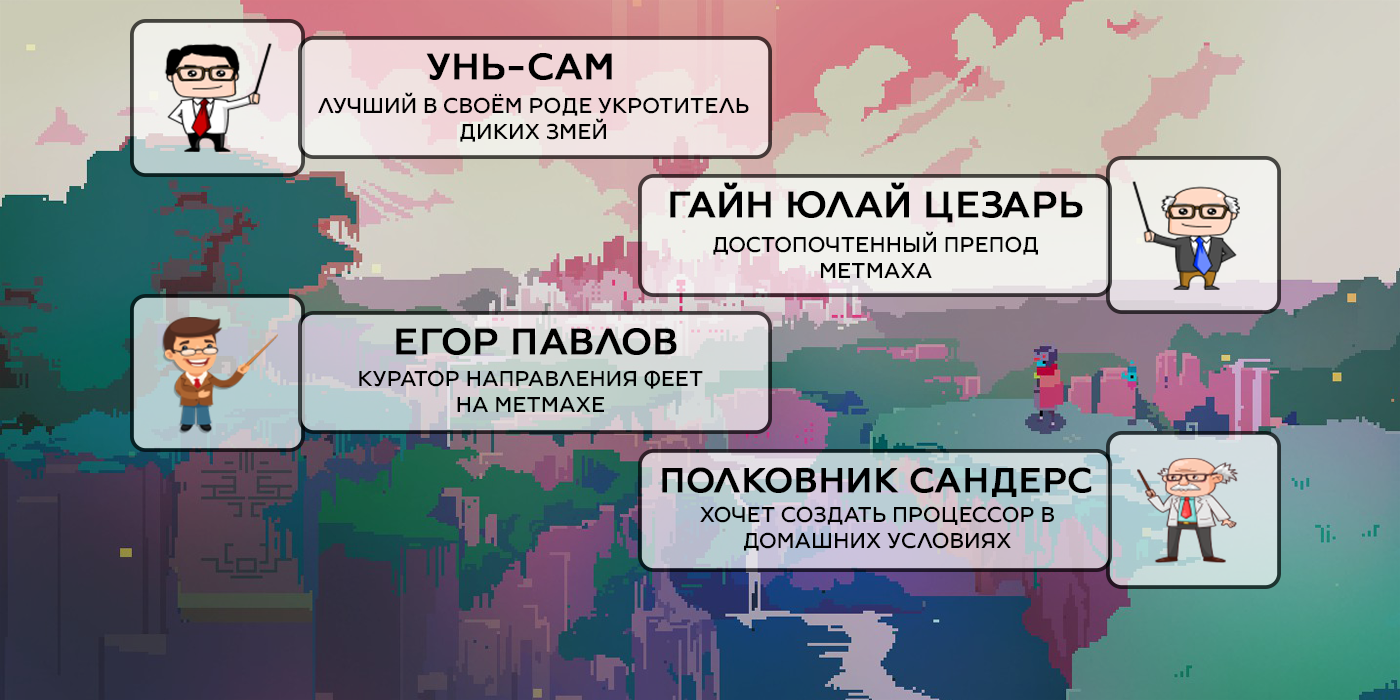
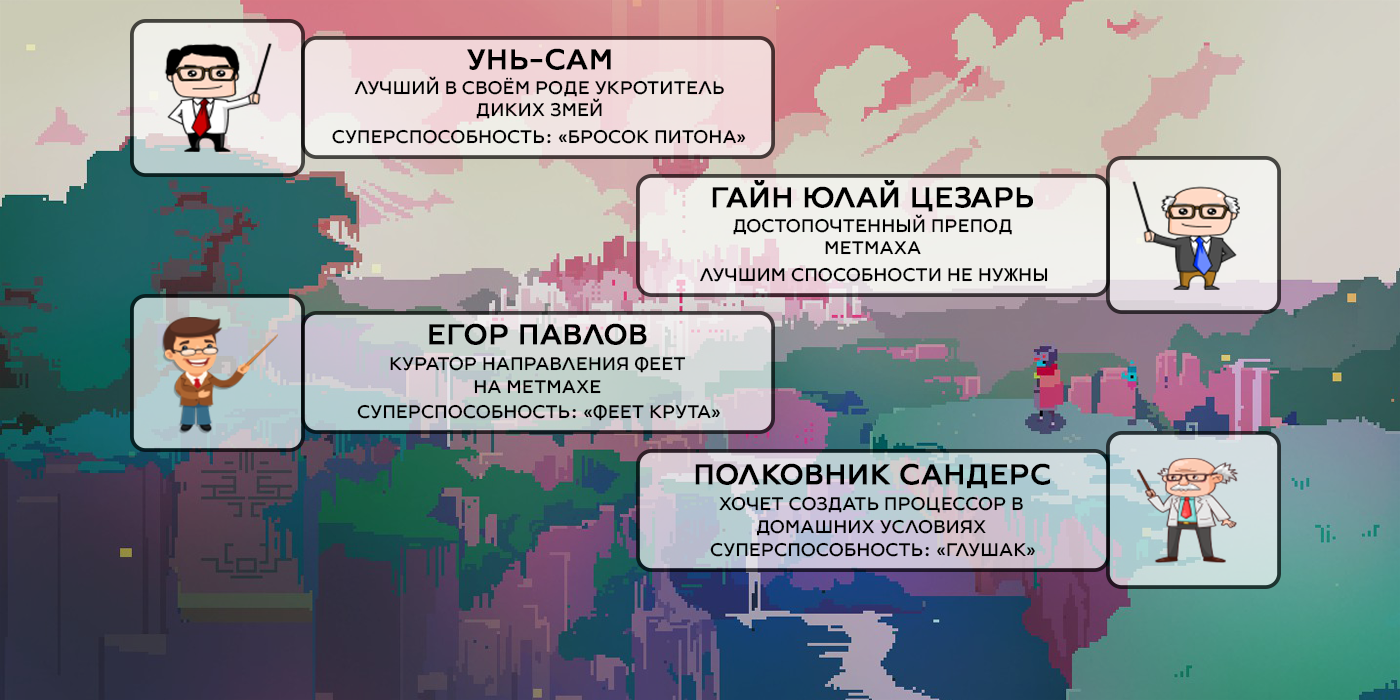
Дописал правила и меню игры

diff --git a/MetMah/Views/HelpControl.cs b/MetMah/Views/HelpControl.cs
@@ -9,6 +9,9 @@ namespace MetMah.Views
         private Button buttonDescription;
         private Button buttonControl;
         private Button buttonCharacters;
+        private Button buttonAbilities;
+        private Button buttonRules1;
+        private Button buttonRules2;
         private Button buttonExit;
         private Button buttonBack;
 
@@ -20,45 +23,68 @@ namespace MetMah.Views
             var font = new Font("Arial", 16);
 
             buttonDescription = new Button();
+            buttonRules1 = new Button();
             buttonControl = new Button();
             buttonCharacters = new Button();
+            buttonAbilities = new Button();
             buttonExit = new Button();
             buttonDescription.Size = new Size(300, 45);
             buttonDescription.BackColor = Color.LightGray;
             buttonDescription.Font = font;
+
+            buttonRules1.Size = new Size(300, 45);
+            buttonRules1.BackColor = Color.LightGray;
+            buttonRules1.Font = font;
+
             buttonControl.Size = new Size(300, 45);
             buttonControl.BackColor = Color.LightGray;
             buttonControl.Font = font;
+
             buttonCharacters.Size = new Size(300, 45);
             buttonCharacters.BackColor = Color.LightGray;
             buttonCharacters.Font = font;
+
+            buttonAbilities.Size = new Size(300, 45);
+            buttonAbilities.BackColor = Color.LightGray;
+            buttonAbilities.Font = font;
+
             buttonExit.Size = new Size(300, 45);
             buttonExit.BackColor = Color.LightGray;
             buttonExit.Font = font;
 
 
             buttonDescription.Location = new Point((ClientSize.Width - buttonDescription.Size.Width) / 2,
-                (ClientSize.Height - buttonDescription.Size.Height) / 2 - 40);
-            buttonControl.Location = new Point(buttonDescription.Location.X,
+                (ClientSize.Height - buttonDescription.Size.Height) / 2 - 60);
+            buttonRules1.Location = new Point(buttonDescription.Location.X,
                 buttonDescription.Location.Y + 50);
+            buttonControl.Location = new Point(buttonRules1.Location.X,
+                buttonRules1.Location.Y + 50);
             buttonCharacters.Location = new Point(buttonControl.Location.X,
                 buttonControl.Location.Y + 50);
-            buttonExit.Location = new Point(buttonCharacters.Location.X,
+            buttonAbilities.Location = new Point(buttonCharacters.Location.X,
                 buttonCharacters.Location.Y + 50);
+            buttonExit.Location = new Point(buttonAbilities.Location.X,
+                buttonAbilities.Location.Y + 50);
 
             buttonDescription.Text = "Описание игры";
+            buttonRules1.Text = "Правила";
             buttonControl.Text = "Управление";
             buttonCharacters.Text = "О персонажах";
+            buttonAbilities.Text = "О способностях";
             buttonExit.Text = "Назад";
 
             buttonDescription.Click += ButtonDescription_Click;
+            buttonRules1.Click += ButtonRules1_Click;
             buttonControl.Click += ButtonControl_Click;
             buttonCharacters.Click += ButtonCharacters_Click;
+            buttonAbilities.Click += ButtonAbilities_Click;
             buttonExit.Click += ButtonExit_Click;
 
             Controls.Add(buttonDescription);
+            Controls.Add(buttonRules1);
             Controls.Add(buttonControl);
             Controls.Add(buttonCharacters);
+            Controls.Add(buttonAbilities);
             Controls.Add(buttonExit);
 
             buttonBack = new Button
@@ -69,6 +95,14 @@ namespace MetMah.Views
                 Text = "Назад"
             };
 
+            buttonRules2 = new Button
+            {
+                Size = new Size(300, 45),
+                BackColor = Color.LightGray,
+                Font = new Font("Arial", 16),
+                Text = "Далее"
+            };
+
             ActiveControl = Controls[0];
         }
 
@@ -76,6 +110,31 @@ namespace MetMah.Views
         {
             HideControls();
             BackgroundImage = Image.FromFile(@"Images\Backgrounds\Description.png");
+            buttonBack.Location = new Point((ClientSize.Width - buttonDescription.Size.Width) / 2,
+                ClientSize.Height - 100);
+            Controls.Add(buttonBack);
+            buttonBack.Click += Return;
+        }
+
+        private void ButtonRules1_Click(object sender, EventArgs e)
+        {
+            HideControls();
+            BackgroundImage = Image.FromFile(@"Images\Backgrounds\Rules1.png");
+            buttonBack.Location = new Point((ClientSize.Width - buttonDescription.Size.Width) / 2,
+                ClientSize.Height - 100);
+            buttonRules2.Location = new Point(buttonBack.Location.X,
+                buttonBack.Location.Y - 50);
+            Controls.Add(buttonRules2);
+            Controls.Add(buttonBack);
+            buttonRules2.Click += ButtonRules2_Click;
+            buttonBack.Click += Return;
+        }
+
+        private void ButtonRules2_Click(object sender, EventArgs e)
+        {
+            HideControls();
+            Controls.Remove(buttonRules2);
+            BackgroundImage = Image.FromFile(@"Images\Backgrounds\Rules2.png");
             buttonBack.Location = new Point((ClientSize.Width - buttonDescription.Size.Width) / 2,
                 ClientSize.Height - 100);
             Controls.Add(buttonBack);
@@ -102,6 +161,16 @@ namespace MetMah.Views
             buttonBack.Click += Return;
         }
 
+        private void ButtonAbilities_Click(object sender, EventArgs e)
+        {
+            HideControls();
+            BackgroundImage = Image.FromFile(@"Images\Backgrounds\Abilities.png");
+            buttonBack.Location = new Point((ClientSize.Width - buttonDescription.Size.Width) / 2,
+                ClientSize.Height - 100);
+            Controls.Add(buttonBack);
+            buttonBack.Click += Return;
+        }
+
         private void ButtonExit_Click(object sender, EventArgs e)
         {
             Hide();
@@ -112,17 +181,22 @@ namespace MetMah.Views
         {
             BackgroundImage = Image.FromFile(@"Images\Backgrounds\Help.png");
             buttonDescription.Show();
+            buttonRules1.Show();
             buttonControl.Show();
             buttonCharacters.Show();
+            buttonAbilities.Show();
             buttonExit.Show();
             Controls.Remove(buttonBack);
+            Controls.Remove(buttonRules2);
         }
 
         private void HideControls()
         {
             buttonDescription.Hide();
+            buttonRules1.Hide();
             buttonControl.Hide();
             buttonCharacters.Hide();
+            buttonAbilities.Hide();
             buttonExit.Hide();
         }
     }

diff --git a/MetMah/Views/PlayControl.cs b/MetMah/Views/PlayControl.cs
@@ -27,8 +27,8 @@ namespace MetMah.Views
             pressedKeys = new HashSet<Keys>();
             progressBar = new ProgressBar
             {
-                Location = new Point(200, 6),
-                Size = new Size(150, 20),
+                Location = new Point(1100, 10),
+                Size = new Size(250, 25),
                 Style = ProgressBarStyle.Continuous
             };
             Controls.Add(progressBar);
@@ -106,9 +106,72 @@ namespace MetMah.Views
                 e.Graphics.DrawImage(bitmaps[GetImageFileName(a.Creature, a.Command.DeltaX)], a.Location);
             e.Graphics.ResetTransform();
 
+            var font = new Font("Arial", 24);
+            var brushes = Brushes.Black;
+
+            //Level
+            e.Graphics.DrawString("Level: " + (game.IndexCurrentLevel + 1) + " / " + 6, font, brushes, 20, 5);
+
+            //Ability
+            Bitmap bitmap = null;
+            if (game.NumberPlayer == 0)
+                bitmap = bitmaps["SnakeMini.png"];
+
+            if (game.NumberPlayer == 1)
+                bitmap = bitmaps["IgnorMini.png"];
+
+            if (game.NumberPlayer == 3)
+                bitmap = bitmaps["DeviceMini.png"];
+
+            if (bitmap != null)
+            {
+                e.Graphics.DrawImage(bitmap, 250, 5);
+
+                e.Graphics.DrawString("x " + game.CurrentLevel.NumberBeer.ToString(), font,
+                    brushes, 290, 5);
+            }
+
+            //Beer
+            e.Graphics.DrawString("Осталось собрать: ", font,
+                brushes, 400, 5);
+            e.Graphics.DrawString(game.CurrentLevel.CountBeer.ToString(), font,
+                brushes, 690, 5);
+
+            //Scale
             var scale = game.PatienceScale > 0 ? game.PatienceScale.ToString() : "0";
-            e.Graphics.DrawString(scale, new Font("Arial", 16), Brushes.Green, 150, 4);
-            e.Graphics.DrawString("Шкала терпения:", new Font("Arial", 12), Brushes.Green, 20, 6);
+            e.Graphics.DrawString(scale, font, brushes, 1030, 4);
+            e.Graphics.DrawString("Шкала терпения:", font, brushes, 770, 5);
+
+
+
+            //var scale = game.PatienceScale > 0 ? game.PatienceScale.ToString() : "0";
+            //e.Graphics.DrawString(scale, new Font("Arial", 24), brushes, 200, 4);
+            //e.Graphics.DrawString("Шкала терпения:", font, brushes, 20, 10);
+
+            //Bitmap bitmap = null;
+            //if (game.NumberPlayer == 0)
+            //    bitmap = bitmaps["SnakeMini.png"];
+
+            //if (game.NumberPlayer == 1)
+            //    bitmap = bitmaps["IgnorMini.png"];
+
+            //if (game.NumberPlayer == 3)
+            //    bitmap = bitmaps["DeviceMini.png"];
+
+            //if (bitmap != null)
+            //{
+            //    e.Graphics.DrawImage(bitmap, progressBar.Location.X + progressBar.Size.Width + 30, 6);
+
+            //    e.Graphics.DrawString("x " + game.CurrentLevel.NumberBeer.ToString(), new Font("Arial", 24),
+            //        brushes, progressBar.Location.X + progressBar.Size.Width + 30 + 33, 6);
+            //}
+
+            //var str = "Осталось собрать:";
+            //e.Graphics.DrawString(str, font,
+            //    brushes, progressBar.Location.X + progressBar.Size.Width + 30 + 33 + 80, 10);
+            //e.Graphics.DrawString(game.CurrentLevel.CountBeer.ToString(), new Font("Arial", 24),
+            //    brushes, progressBar.Location.X + progressBar.Size.Width + 30 + 33 + 30 + 250, 7);
+
             progressBar.Value = game.PatienceScale > 0 ?
                 game.HeightCurrentLevel * game.WidthCurrentLevel - game.PatienceScale : 0;
         }

diff --git a/MetMah/GameState.cs b/MetMah/GameState.cs
@@ -23,7 +23,7 @@ namespace MetMah
         public int HeightCurrentLevel => CurrentLevel.Height;
         public GameStage Stage { get; private set; }
         private bool changeLevel;
-        private int numberPlayer;
+        public int NumberPlayer { get; private set; }
 
         public event Action<GameStage> StageChanged;
 
@@ -42,7 +42,7 @@ namespace MetMah
         }
 
         public void ChoiceCharacter() => ChangeStage(GameStage.ChoiceCharacter);
-        public void SetNumberPlayer(int numberPlayer) => this.numberPlayer = numberPlayer;
+        public void SetNumberPlayer(int numberPlayer) => this.NumberPlayer = numberPlayer;
 
         public void Start()
         {
@@ -213,7 +213,7 @@ namespace MetMah
             foreach (var e in pathLevels.GetFiles("*.txt"))
             {
                 var levelString = e.OpenText().ReadToEnd();
-                levels.Add(new Level(levelString, numberPlayer));
+                levels.Add(new Level(levelString, NumberPlayer));
             }
             var random = new Random();
             Levels = levels.OrderBy(x => random.Next()).Take(2).ToArray();

diff --git a/MetMah/Creature/Player.cs b/MetMah/Creature/Player.cs
@@ -18,6 +18,8 @@ namespace MetMah.Creature
 
         public Move Act(Level level, int x, int y)
         {
+            level.NumberBeer = numberBeer;
+
             if (PlayerNumber == 1 && timeIgnor > 0)
             {
                 timeIgnor -= 1;
@@ -37,6 +39,7 @@ namespace MetMah.Creature
                 {
                     Status = Status.Inactive;
                     timeIgnor = 15;
+                    numberBeer -= 1;
                 }
 
                 if (PlayerNumber == 3 && numberBeer > 0 && !level.CheckCreature(x, y, typeof(Device)))

diff --git a/MetMah/Additionally/Level.cs b/MetMah/Additionally/Level.cs
@@ -15,6 +15,7 @@ namespace MetMah.Additionally
         public Keys KeyPressed;
         public readonly string TextInitiallyMap;
         public int CountBeer { get; set; }
+        public int NumberBeer { get; set; }
 
         public Level(string map, int numberPlayer)
         {

diff --git a/MetMah/Views/MainForm.cs b/MetMah/Views/MainForm.cs
@@ -115,6 +115,7 @@ namespace MetMah.Views
         {
             HideScreens();
             playControl.Configure(choiceControl.PlayerName);
+            playControl.Focus();
             playControl.Show();
         }
 

diff --git a/MetMah/Creature/Device.cs b/MetMah/Creature/Device.cs
@@ -14,7 +14,7 @@ namespace MetMah.Creature
 
         public Device()
         {
-            LifeTime = 10;
+            LifeTime = 15;
             Students = new List<ICreature>();
         }
 
